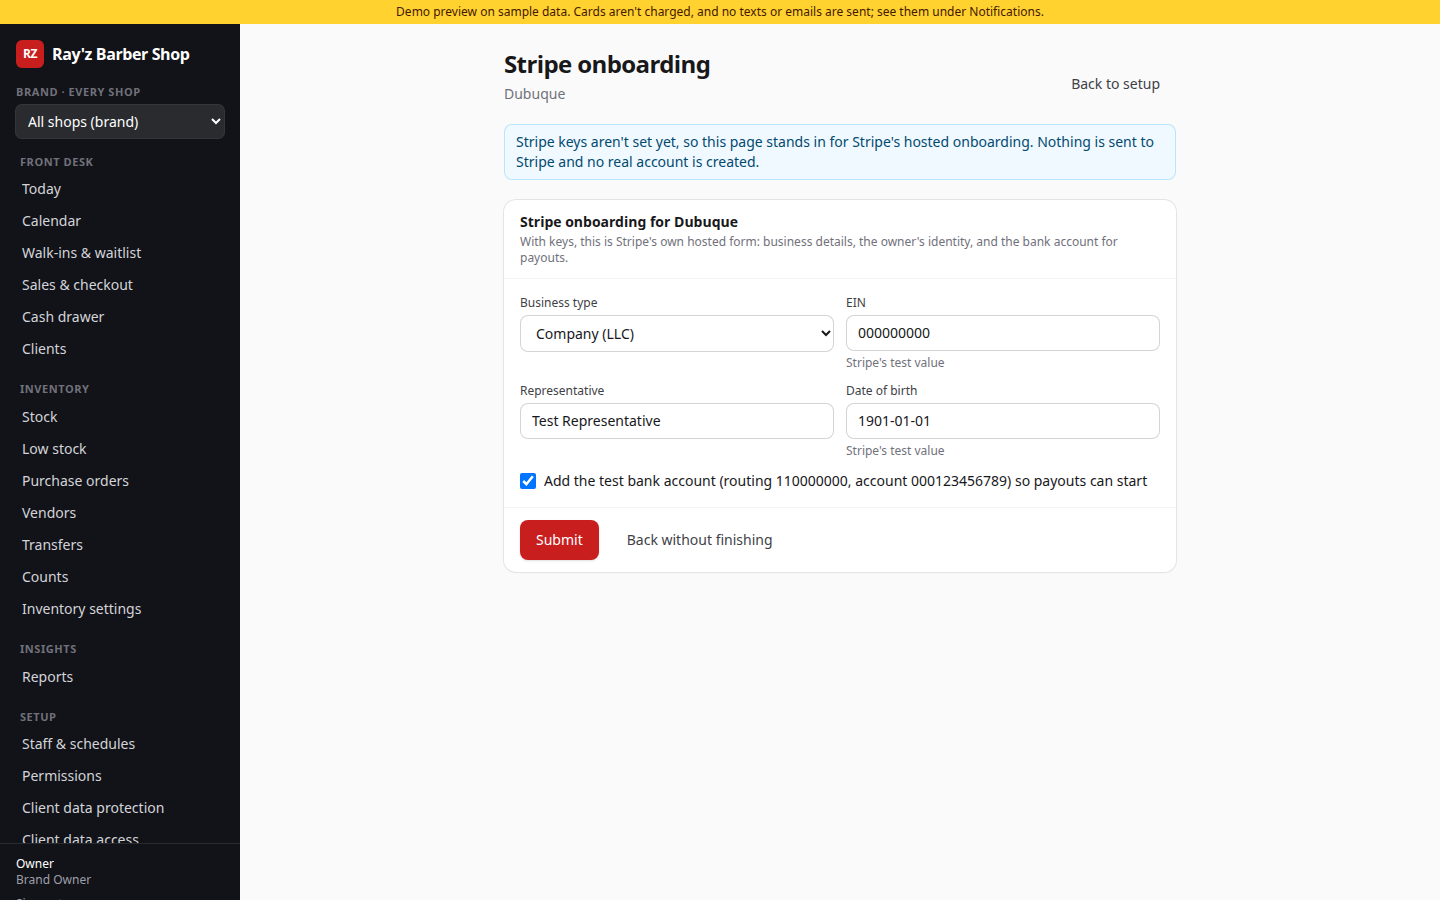
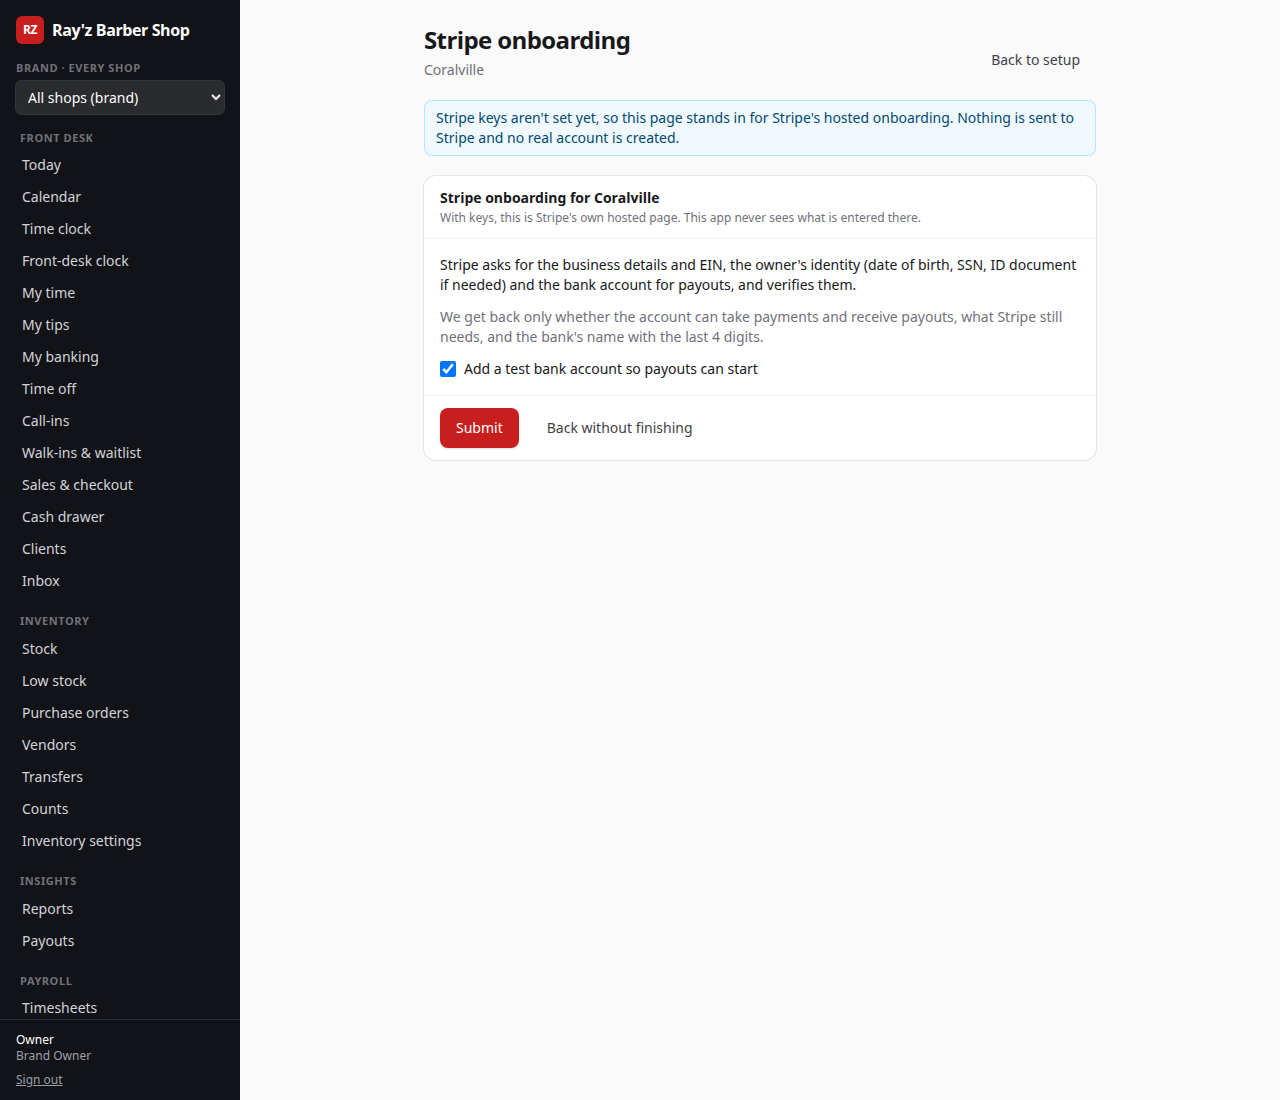
Screenshots: the onboarding simulator without test identity or bank numbers, and a client note as stored after scrubbing

Changed region(s): [[0.0, 0.0, 1.0, 1.0], [0.3438, 0.3422, 0.8125, 0.6222]]

diff --git a/README.md b/README.md
@@ -384,6 +384,8 @@ What still guards against them arriving by mistake:
 
 Allowed on purpose: the vendor's **account number** (the shop's customer number at a supplier, printed on purchase orders; vendor audits record it as `supplierAccount`) and the client's **birthday** (for greetings, never identity checks).
 
+<img alt="A client note typed with a card number and an SSN, as stored: both replaced by markers" src="docs/screenshots/sensitive-scrubbed-note.png" width="800" />
+
 Limits: a bare run of digits that isn't a card number can't be told from an order number. That includes a 9-digit SSN or routing number typed without dashes, or a 10 to 12 digit bank account number. The rules are a backstop. The real control is that nobody is ever asked for these numbers.
 
 `tests/sensitive.test.ts` checks the rules, the log scrubbing, and that no column in the schema or any migration (and no JSON property in the schema) is one of these fields. `tests/db/sensitive-data.test.ts` plants real-looking values through Stripe webhooks (an employee's and a shop's account, a payout failure), client notes and custom fields, an inbound text, a Squire import, a queued message, an audit entry and a failing server action. It then greps every row of every table, every JSON column, the captured logs, the webhook responses, the banking views and every `/api/v1` GET response and the OpenAPI document. It also checks that every free-text column has the trigger and that the SQL and app rules agree.
